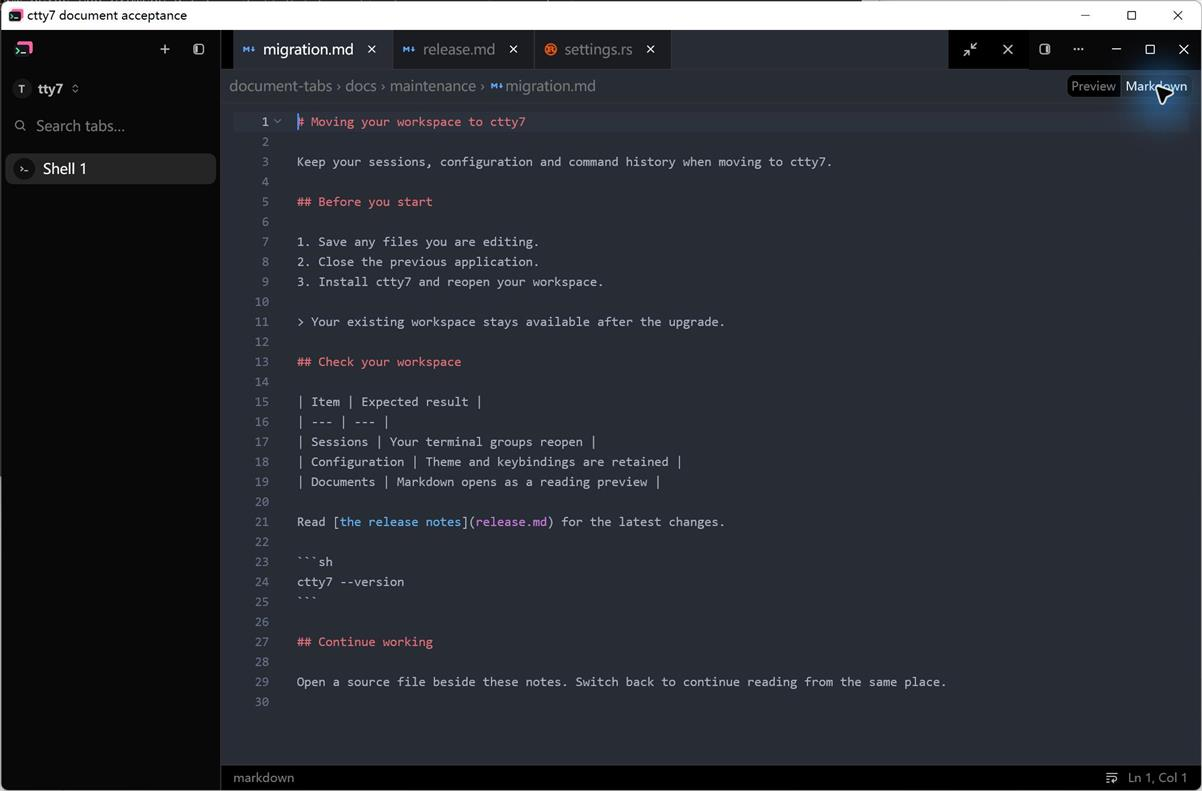
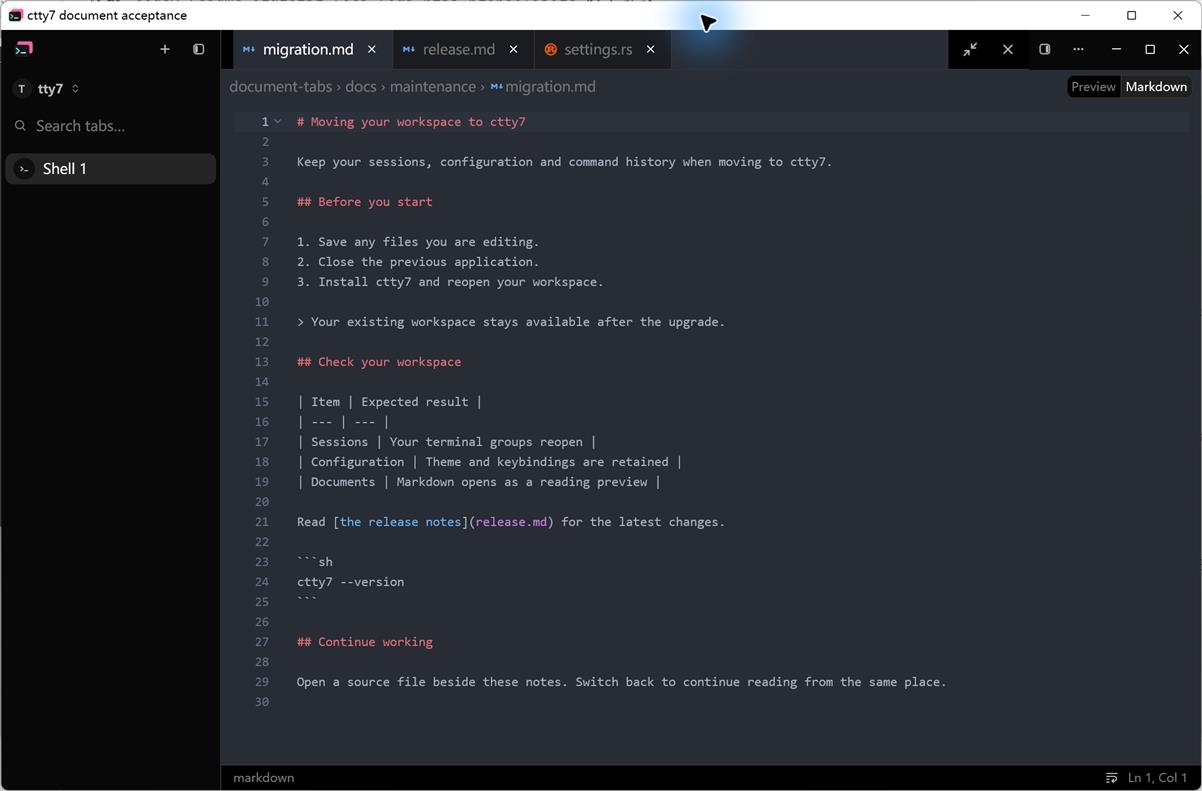
fix(editor): remove the breadcrumb bottom divider
A line below the file path separated the document header from its
content, unlike the Cursor reference.

Remove the shared breadcrumb bottom border and refresh the native
Markdown preview and source captures.

Changed region(s): [[0.8927, 0.0607, 1.0, 0.182], [0.5541, 0.0, 0.6156, 0.091], [0.0, 0.0, 0.0308, 0.0303]]

diff --git a/src/ui/code_editor.rs b/src/ui/code_editor.rs
@@ -1961,8 +1961,6 @@ impl Tty7App {
             .gap_1()
             .px_2()
             .bg(gpui::rgb(document_chrome_background(active, cx)))
-            .border_b_1()
-            .border_color(cx.theme().border)
             .child(
                 div()
                     .id("editor-document-path")

diff --git a/docs/testing/document-tabs-native.md b/docs/testing/document-tabs-native.md
@@ -55,6 +55,7 @@ commits `89176e54` and `8de7b3f5` applied. The After application uses the file-t
 UI with the content-matched document chrome color pass. In source mode, the
 active tab and breadcrumb row share the editor background, while inactive tabs
 use a darker blend. Markdown and HTML previews retain the window background.
+The breadcrumb row has no bottom divider, so it joins the document content.
 Markdown cases open the two maintenance documents and
 `settings.rs`; the HTML case additionally opens `overview.html`.
 
@@ -81,6 +82,10 @@ The color pass passed `cargo fmt --all -- --check`, all six tests selected by
 `cargo build --bin tty7-app --features markdown-visual-tests` on Windows. The
 three refreshed After images were inspected in the native application and again
 after export.
+
+The divider-only follow-up passed formatting and the fixture build. Its updated
+Markdown preview and source captures were checked in the native window and after
+export; the HTML capture remains from the preceding color pass.
 
 ## Capture limits
 
